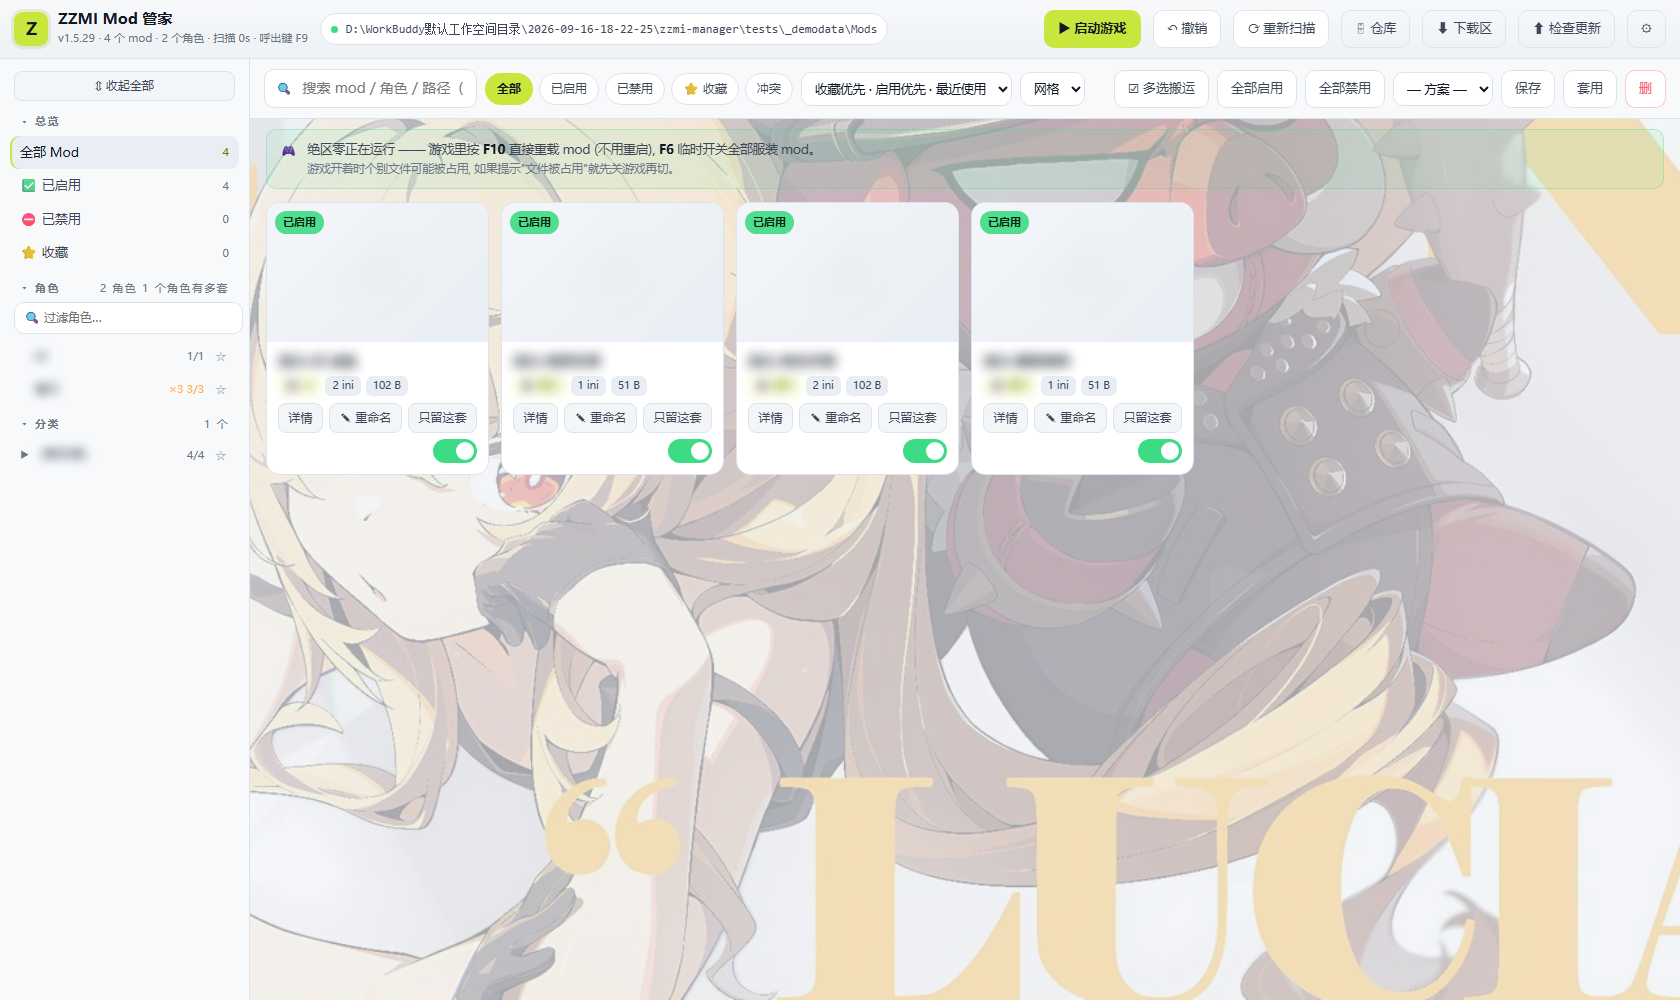
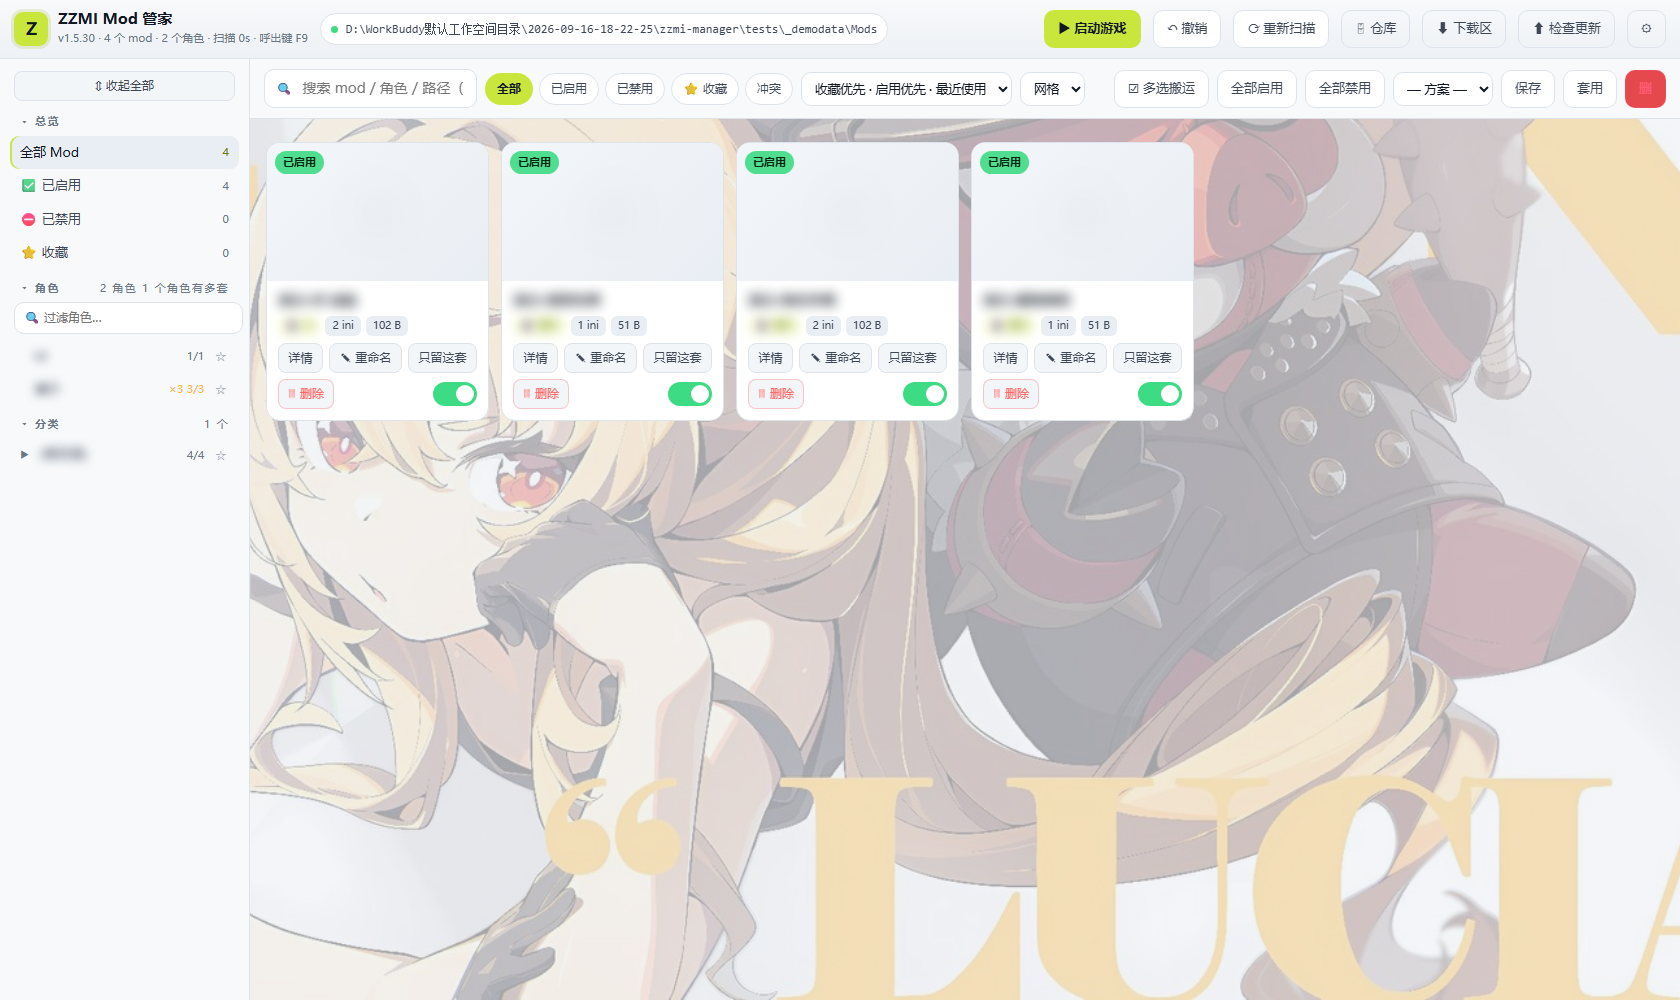
v1.5.30: 卡片新增红色删除按钮, 二次确认后移入回收站
- 开关左边加「🗑 删除」(标红, 正好填上原来的空位)
- 两道确认弹窗: 第一道问真要删吗, 第二道明确提醒"删除=移到回收站,
  去回收站右键还原即可回来", 两问都确认才执行
- 后端 recycle_path 走 Windows 原生 SHFileOperationW+FOF_ALLOWUNDO,
  物理删除路径不存在; do_mod_delete 双安全闸(必须解析得到+必须在 Mods 内)
- 删除成功后清理 pinned/usage/封面/角色标记等指向它的死配置
- mAsk 弹窗扩展 confirm 模式(隐藏输入框/自定义按钮文字/标红), 输入模式回归正常
- 测试: test_core 新增越界拒绝/删根拒绝/沙箱真删进回收站 3 组断言;
  ui_check v1.5.30 八项静态检查; 浏览器功能实测 4->3 卡片+toast+磁盘消失

Changed region(s): [[0.1548, 0.279, 0.7119, 0.496], [0.1548, 0.124, 0.7119, 0.248], [0.9595, 0.062, 0.9905, 0.124]]

diff --git a/ui.html b/ui.html
@@ -78,6 +78,8 @@ html[data-theme="light"] .logo{box-shadow:0 0 0 3px rgba(140,175,0,.16)}
 .btn:active{transform:translateY(1px)}
 .btn.primary{background:var(--accent);color:var(--ink);border-color:transparent;font-weight:700}
 .btn.primary:hover{filter:brightness(1.08);color:var(--ink)}
+.btn.danger{background:#e5484d;color:#fff;border-color:transparent;font-weight:700}
+.btn.danger:hover{filter:brightness(1.08);color:#fff}
 .btn.ghost{background:transparent}
 .btn.danger{color:var(--off);border-color:rgba(255,93,115,.35)}
 .btn.danger:hover{background:rgba(255,93,115,.12)}
@@ -194,6 +196,8 @@ html[data-theme="light"] .tag.char{color:#6b8000}
 .mini{padding:5px 9px;border-radius:8px;background:var(--panel2);border:1px solid var(--line);
   font-size:12px;color:var(--txt2);transition:.13s;flex:1 1 auto;white-space:nowrap;text-align:center}
 .mini:hover{background:var(--panel3);color:var(--txt);border-color:var(--line2)}
+.mini.del{flex:0 0 auto;color:#ff6b6b;border-color:rgba(255,107,107,.35)}
+.mini.del:hover{background:rgba(229,72,77,.16);color:#ff8a8a;border-color:#e5484d}
 .sw{margin-left:auto;width:44px;height:24px;border-radius:999px;background:var(--line2);
   position:relative;transition:.18s;flex:0 0 auto}
 .sw::after{content:"";position:absolute;top:3px;left:3px;width:18px;height:18px;border-radius:50%;
@@ -1112,6 +1116,8 @@ function renderCards(){
             title="重命名这个 mod 文件夹(名字被占用会自动加序号)">✎ 重命名</button>
           <button class="mini" data-act="solo" data-id="${esc(e.id)}"
             title="同一角色只保留这一套, 其它自动禁用">只留这套</button>
+          <button class="mini del" data-act="del" data-id="${esc(e.id)}"
+            title="删除这个 mod(移到回收站, 可从回收站还原)">🗑 删除</button>
           <button class="sw ${e.enabled?"on":""}" data-act="toggle" data-id="${esc(e.id)}"
             data-on="${e.enabled?1:0}" title="点击切换"></button>
         </div>
@@ -1164,6 +1170,7 @@ $("#cards").addEventListener("click", async ev => {
   if (!act) return;
   if (act === "detail") return openDetail(id);
   if (act === "rename"){ const e = S.entries.find(x => x.id === id); if (e) renameMod(e); return; }
+  if (act === "del"){ const e = S.entries.find(x => x.id === id); if (e) deleteMod(e); return; }
   if (act === "zoom"){
     const e = S.entries.find(x => x.id === id);
     return e && e.thumb ? zoomImage(e.thumb, e.name + "  ·  " + e.char) : openDetail(id);
@@ -1999,6 +2006,22 @@ async function renameMod(e){
   renderAll();
   return true;
 }
+
+// v1.5.30: 卡片「🗑 删除」= 二次确认后把 mod 文件夹移到回收站(可从回收站还原)。
+// 第一次: 确认要删; 第二次: 明确告知是进回收站不是抹掉, 两问都点确认才真动手。
+async function deleteMod(e){
+  if (!e) return;
+  const c1 = await openAsk(`真的要删除「${e.name}」吗？\n删掉后这个 mod 会从列表里消失。`,
+                           null, {confirm:true, okText:"下一步", danger:true});
+  if (!c1) return;
+  const c2 = await openAsk(`再确认一次 —— 删除方式是「移到回收站」：\n不是彻底抹掉, 后悔了随时打开 Windows 回收站,\n对着它右键 → 还原, 就完整回来了。\n\n点下面按钮即刻执行。`,
+                           null, {confirm:true, okText:"🗑 移入回收站", danger:true});
+  if (!c2) return;
+  const r = await api("/api/mod_delete", {id:e.id});
+  if (r.state) S = r.state;
+  toast(r.msg || (r.ok ? "已移到回收站" : "删除失败"), r.ok ? "ok" : "err");
+  renderAll();
+}
 $("#dtRename").onclick = async () => {
   const e = S.entries.find(x => x.id === curDetail);
   if (!e) return;
@@ -2262,16 +2285,25 @@ function closeAll(){
 
 // v1.5.10: 自制输入弹窗, 替换浏览器原生 prompt()。原生 prompt 标题是网址且无法自定义,
 // 这里统一显示「ZZMI MOD 管家」。返回 Promise<string|null>, 取消/ESC 返回 null。
-let _askResolve = null;
-function openAsk(msg, defval){
+// v1.5.30: opts.confirm = 只要「取消/确定」两个按钮的确认框(隐藏输入框, 可自定义按钮文字/标红),
+// 确认时 resolve(true), 取消 resolve(false)。
+let _askResolve = null, _askConfirm = false;
+function openAsk(msg, defval, opts){
+  opts = opts || {};
+  _askConfirm = !!opts.confirm;
   return new Promise(resolve => {
-    _askResolve = resolve;
+    _askResolve = _askConfirm ? (v => resolve(v !== null && v !== false)) : resolve;
     $("#mAskMsg").textContent = msg || "";
     const inp = $("#mAskInput");
+    inp.style.display = _askConfirm ? "none" : "";
     inp.value = (defval != null) ? String(defval) : "";
+    const ok = $("#mAskOk");
+    ok.textContent = opts.okText || "确定";
+    ok.classList.toggle("primary", !_askConfirm || !opts.danger);
+    ok.classList.toggle("danger", _askConfirm && !!opts.danger);
     $("#mAskMask").classList.add("on");
     $("#mAsk").classList.add("on");
-    setTimeout(() => { inp.focus(); inp.select(); }, 30);
+    setTimeout(() => { if (_askConfirm) ok.focus(); else { inp.focus(); inp.select(); } }, 30);
   });
 }
 function closeAsk(val){

diff --git a/zzmi_manager.py b/zzmi_manager.py
@@ -5,6 +5,15 @@ ZZMI Mod 管家  (ZZMI Mod Manager)
 =========================================
 绝区零 ZZMI / XXMI Launcher 的 Mod 管理界面。
 
+v1.5.30 更新
+-----------
+* **卡片上新增「🗑 删除」按钮(开关左边, 标红)**: 点删除要走**两道确认弹窗** ——
+  第一道问「真的要删吗」, 第二道明确提醒「删除方式=移到回收站, 不是彻底抹掉,
+  后悔了去回收站右键→还原就能回来」, 两道都点确认才动手。
+  后端走 Windows 原生回收站接口(SHFileOperation + ALLOWUNDO), **物理删除这条路根本不存在**;
+  另有安全闸: 只认 Mods 目录里面的真实 mod 文件夹, 越界路径一律拒绝。
+  删除成功后自动清掉收藏/使用时间/自选封面这些指向它的死记录
+
 v1.5.29 更新
 -----------
 * **彻底屏蔽 Edge「超级拖放」搜索条**: 在界面里拖选文字松手, 浏览器会弹出
@@ -330,7 +339,7 @@ import urllib.request
 import webbrowser
 from http.server import BaseHTTPRequestHandler, ThreadingHTTPServer
 
-VERSION = "1.5.29"
+VERSION = "1.5.30"
 APP_NAME = "ZZMI Mod 管家"
 
 # GitHub 仓库(用于自动更新检查); 也可以在设置里改成自己的 fork
@@ -3014,6 +3023,69 @@ def do_rename(mods_dir, entry, new_name):
                         "reason": lock_reason_kind(msg), "rename": True}
 
 
+def recycle_path(abs_path):
+    """把一个文件/文件夹**移到回收站**(不是物理删除, 可从回收站还原)。
+    返回 (ok, msg)。非 Windows 直接拒绝 —— 宁可不动, 也不 os.remove。"""
+    if not _WIN:
+        return False, "只有 Windows 支持移到回收站"
+    import ctypes
+    from ctypes import wintypes
+    FO_DELETE = 3
+    # FOF_ALLOWUNDO=进回收站; 静默、不弹系统确认/错误框(确认由界面做二次弹窗)
+    FLAGS = 0x0004 | 0x0010 | 0x0040 | 0x0400   # SILENT|NOCONFIRMATION|ALLOWUNDO|NOERRORUI
+
+    class SHFILEOPSTRUCTW(ctypes.Structure):
+        _fields_ = [("hwnd", wintypes.HWND),
+                    ("wFunc", ctypes.c_uint),
+                    ("pFrom", wintypes.LPCWSTR),
+                    ("pTo", wintypes.LPCWSTR),
+                    ("fFlags", ctypes.c_ushort),
+                    ("fAnyOperationsAborted", wintypes.BOOL),
+                    ("hNameMappings", ctypes.c_void_p),
+                    ("lpszProgressTitle", wintypes.LPCWSTR)]
+    # pFrom 要求「双 null 结尾」
+    op = SHFILEOPSTRUCTW()
+    op.hwnd = None
+    op.wFunc = FO_DELETE
+    op.pFrom = abs_path + "\0\0"
+    op.pTo = None
+    op.fFlags = FLAGS
+    try:
+        rc = ctypes.windll.shell32.SHFileOperationW(ctypes.byref(op))
+    except Exception as ex:
+        return False, "移到回收站失败: %s" % ex
+    if rc == 0 and not op.fAnyOperationsAborted:
+        return True, "已移到回收站"
+    if op.fAnyOperationsAborted:
+        return False, "已取消"
+    return False, {
+        0x7C: "没找到这个文件夹(可能已被移走)",
+        0x74: "这个文件夹正被占用 —— 先关掉游戏再试",
+        0x57: "参数不对(路径异常)",
+        0x3A: "路径太长, 先把 mod 挪到浅一点的目录",
+    }.get(rc, "移到回收站失败(code=%d)%s" % (rc, ""))
+
+
+def do_mod_delete(mods_dir, entry):
+    """删除整个 mod 文件夹 —— 只走回收站, 永不物理删除。
+    安全闸: 目标必须真实存在、且就在 Mods 目录里面(防越界删到盘符/系统目录)。"""
+    cur = entry_root(mods_dir, entry)
+    if not cur or not os.path.isdir(cur):
+        return False, "找不到这个 mod 的文件夹(可能已被移走)"
+    md = os.path.abspath(mods_dir)
+    target = os.path.abspath(cur)
+    if os.path.normcase(target) == os.path.normcase(md):
+        return False, "不能删除 Mods 总目录本身"
+    if os.path.normcase(target).startswith(os.path.normcase(md) + os.sep):
+        pass                                   # 正常: 在 Mods 里面
+    else:
+        return False, "这个 mod 不在 Mods 目录里, 为安全起见不删"
+    ok, msg = recycle_path(target)
+    if ok:
+        msg = "已把「%s」移到回收站" % os.path.basename(target)
+    return ok, msg
+
+
 def _explorer_windows():
     """列出所有资源管理器窗口: [(hwnd, 标题), ...]"""
     if not _WIN:
@@ -5506,6 +5578,29 @@ class Handler(BaseHTTPRequestHandler):
                 if not ok and extra:
                     out["manual"] = extra   # v1.5.24: 前端弹「手动改名」教程
                 return self._json(out)
+
+            if act == "mod_delete":
+                # v1.5.30: 删除 mod = 移到回收站(可还原), 前端已做二次确认
+                e = app.scan.by_id.get(body.get("id") or "")
+                if not e:
+                    return self._json({"ok": False, "msg": "找不到该 mod"})
+                name = e.get("name") or ""
+                ok, msg = do_mod_delete(app.mods_dir(), e)
+                if ok:
+                    # 清掉指向它的配置记录(收藏/使用时间/封面/角色标记), 不留死数据
+                    mid, mpath = e["id"], e["path"]
+                    cfg = app.cfg
+                    cfg["pinned_mods"] = [x for x in (cfg.get("pinned_mods") or [])
+                                          if x != mid and x != mpath]
+                    (cfg.get("usage") or {}).pop(mid, None)
+                    for key in ("thumb_overrides", "char_overrides"):
+                        d = cfg.get(key) or {}
+                        for k in [k for k in d if k == mpath or k == mid]:
+                            d.pop(k, None)
+                    app.save_config()
+                    invalidate_lib_cache()
+                app.rescan()
+                return self._json({"ok": ok, "msg": msg, "state": app.state()})
 
             if act == "list_dirs":
                 """浏览文件夹(给「自定义文件夹」挑选目标用)。只读。"""

diff --git a/tests/test_core.py b/tests/test_core.py
@@ -349,6 +349,38 @@ assert os.path.isdir(os.path.join(mods, "同名回归 (2)"))
 assert os.path.isdir(os.path.join(mods, "同名回归")), "启用套不能被动"
 w("v1.5.9 同名两套解析/启用回归 OK")
 
+# ---------- v1.5.30 删除 mod = 移到回收站 ----------
+w()
+w("=== 4.7 删除 mod(回收站, v1.5.30) ===")
+# 安全闸 1: 越界路径(id 指向 Mods 外)必须拒绝, 且目录原封不动
+_out = os.path.join(HERE, "_outside_mod")
+_clean(_out)
+os.makedirs(_out, exist_ok=True)
+open(os.path.join(_out, "keep.ini"), "w").close()
+ok, msg = Z.do_mod_delete(mods, {"id": "../_outside_mod", "path": "x"})
+assert not ok, (ok, msg)          # 两道闸: 解析不出去 / 越界拒绝
+assert os.path.isdir(_out), "越界删除竟然把 Mods 外的目录动了!"
+w("越界路径被拒, 外部目录完好 OK (%s)" % msg)
+# 安全闸 2: 不许删 Mods 根
+ok, msg = Z.do_mod_delete(mods, {"id": "", "path": ""})
+assert not ok, (ok, msg)
+w("删 Mods 根被拒 OK (%s)" % msg)
+# 真删: 沙箱 mod -> 回收站(Windows 原生接口, 可还原)
+_d = os.path.join(mods, "删除测试")
+os.makedirs(_d, exist_ok=True)
+open(os.path.join(_d, "d.ini"), "w", encoding="utf-8").write(
+    "[TextureOverrideDel]\nhash = dedededede\nvb0 = R\n")
+ok, msg = Z.do_mod_delete(mods, {"id": "删除测试", "path": "删除测试"})
+w("do_mod_delete -> ok=%s msg=%s" % (ok, msg))
+if Z._WIN:
+    assert ok and not os.path.isdir(_d), (ok, msg)
+    w("沙箱 mod 已进回收站, 目录消失 OK")
+else:
+    assert not ok, "非 Windows 应拒绝而不是物理删除"
+    assert os.path.isdir(_d)
+_clean(_out)
+_clean(_d)
+
 w()
 w("ALL TESTS PASSED")
 open(OUT, "w", encoding="utf-8").write("\n".join(L))

diff --git a/tests/ui_check.py b/tests/ui_check.py
@@ -426,6 +426,26 @@ for name, ok in static_checks17:
         sbad17.append(name)
 assert not sbad17, "v1.5.29 静态检查失败: %s" % sbad17
 
+# ---------- 2.18 v1.5.30 静态检查(卡片删除按钮 = 二次确认移入回收站) ----------
+static_checks18 = [
+    ("卡片有红色删除按钮(data-act=del)", 'data-act="del"' in html and "🗑 删除" in html),
+    ("删除按钮排在开关左边", html.find('data-act="del"') < html.find('data-act="toggle"')),
+    ("第一道确认: 真的要删除吗", "真的要删除" in html),
+    ("第二道确认: 提醒移入回收站可还原", "移入回收站" in html and "还原" in html),
+    ("确认框支持标红按钮(danger)", 'ok.classList.toggle("danger"' in html),
+    ("后端只走回收站(FOF_ALLOWUNDO)", "0x0040" in zsrc and "SHFileOperationW" in zsrc),
+    ("后端有越界安全闸", "不在 Mods 目录里" in zsrc),
+    ("API 有 mod_delete 路由", 'act == "mod_delete"' in zsrc),
+]
+w()
+w("=== v1.5.30 静态检查 ===")
+sbad18 = []
+for name, ok in static_checks18:
+    w(("  [OK]   " if ok else "  [FAIL] ") + name)
+    if not ok:
+        sbad18.append(name)
+assert not sbad18, "v1.5.30 静态检查失败: %s" % sbad18
+
 
 # 先确认服务真的还活着 —— last_url.txt 记的是"上一次启动"的端口, 进程一关就是死链,
 # 浏览器会安静地渲染出 Edge 的"拒绝连接"错误页, 让渲染校验全部假 FAIL(踩过)。
